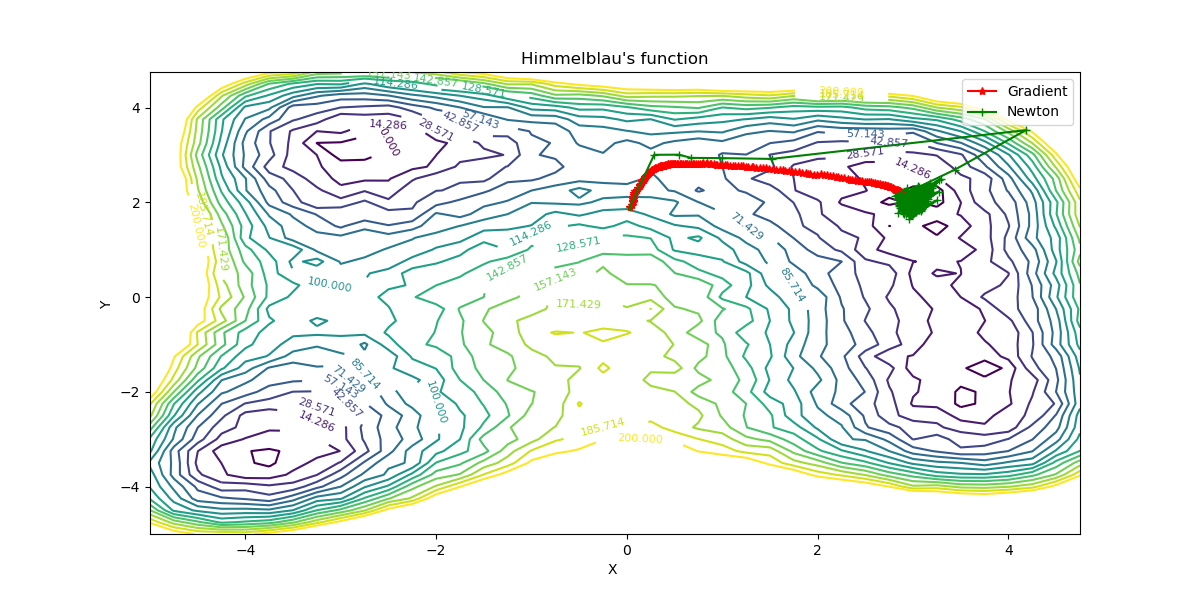
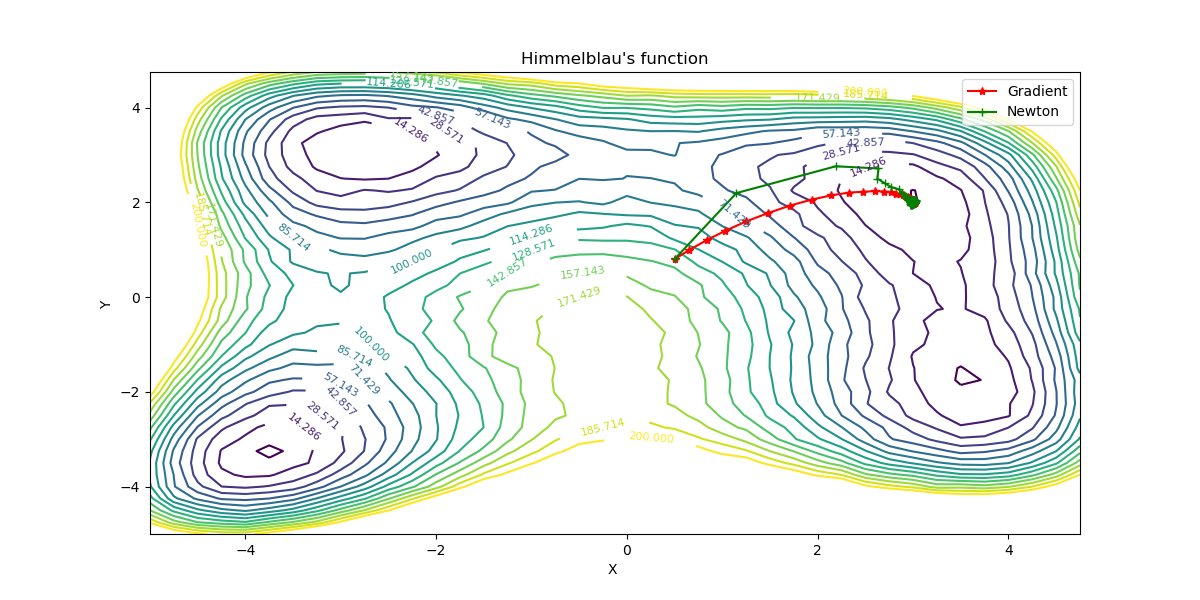
-optimisation step

Changed region(s): [[0.1233, 0.12, 0.925, 0.9]]

diff --git a/Newton-vs-gradient.py b/Newton-vs-gradient.py
@@ -17,8 +17,10 @@ from matplotlib.pyplot import plot, ion, show
 import matplotlib.pyplot as plt
 from matplotlib import cm
 import numpy as np
-mu, sigma = 0, 5  # mean and standard deviation
-mu_grad, sigma_grad = 0, 5  # mean and standard deviation of first derivatives
+# mean and standard deviation for function noise
+mu, sigma = 0, 2
+# mean and standard deviation of first derivatives of gradient
+mu_grad, sigma_grad = 0, 1
 
 # ################################################################################
 # Gradient descent or Cauchy method
@@ -173,18 +175,18 @@ rand = np.random.RandomState(23)
 # XY_init = rand.uniform(-0.5, 0.5, 2)
 # XY_init = np.array([3.5, -2])
 # XY_init = np.array([-2, -1.9])
-XY_init = np.array([0.03, 1.9])
+XY_init = np.array([0.5, 0.8])
 
 learning_rates = [0.05, 0.2, 0.5, 0.8]
 max_iter = 500
 threshold = 0.0001
 # Gradient descent
-w_history, f_history, eps_history, eps_history_xy_G = gradient_descent(max_iter, threshold, XY_init, f, grad,  learning_rate=0.001)
+w_history, f_history, eps_history, eps_history_xy_G = gradient_descent(max_iter, threshold, XY_init, f, grad,  learning_rate=0.005)
 print("Grad")
 print(w_history)
 print(f_history)
 # Newton descent
-w_history_N, f_history_N, eps_history_N, eps_history_xy_N = Newtons_method(max_iter, threshold, XY_init, f, grad, second_grad,  learning_rate=0.6)
+w_history_N, f_history_N, eps_history_N, eps_history_xy_N = Newtons_method(max_iter, threshold, XY_init, f, grad, second_grad,  learning_rate=0.5)
 print("Newton")
 print(w_history_N)
 print(f_history_N)
@@ -250,7 +252,7 @@ plt.ylabel('$\epsilon$')
 # plt.title('$\epsilon$, Newton')
 plt.grid(True)
 plt.axis([0, 300, 0, 100])
-plt.legend(loc='bottom right')
+plt.legend(loc='right')
 
 # plt.set_xlabel('X Label')
 # plt.set_ylabel('Y Label')
@@ -270,7 +272,7 @@ plt.ylabel('Gradient desc. args, $[x,y]$')
 # plt.title('Conv. to optimal argument,  Gradient')
 plt.grid(True)
 plt.axis([0, 300, 0, 4])
-plt.legend(loc='bottom right')
+plt.legend(loc='right')
 
 
 plt.subplot(414)
